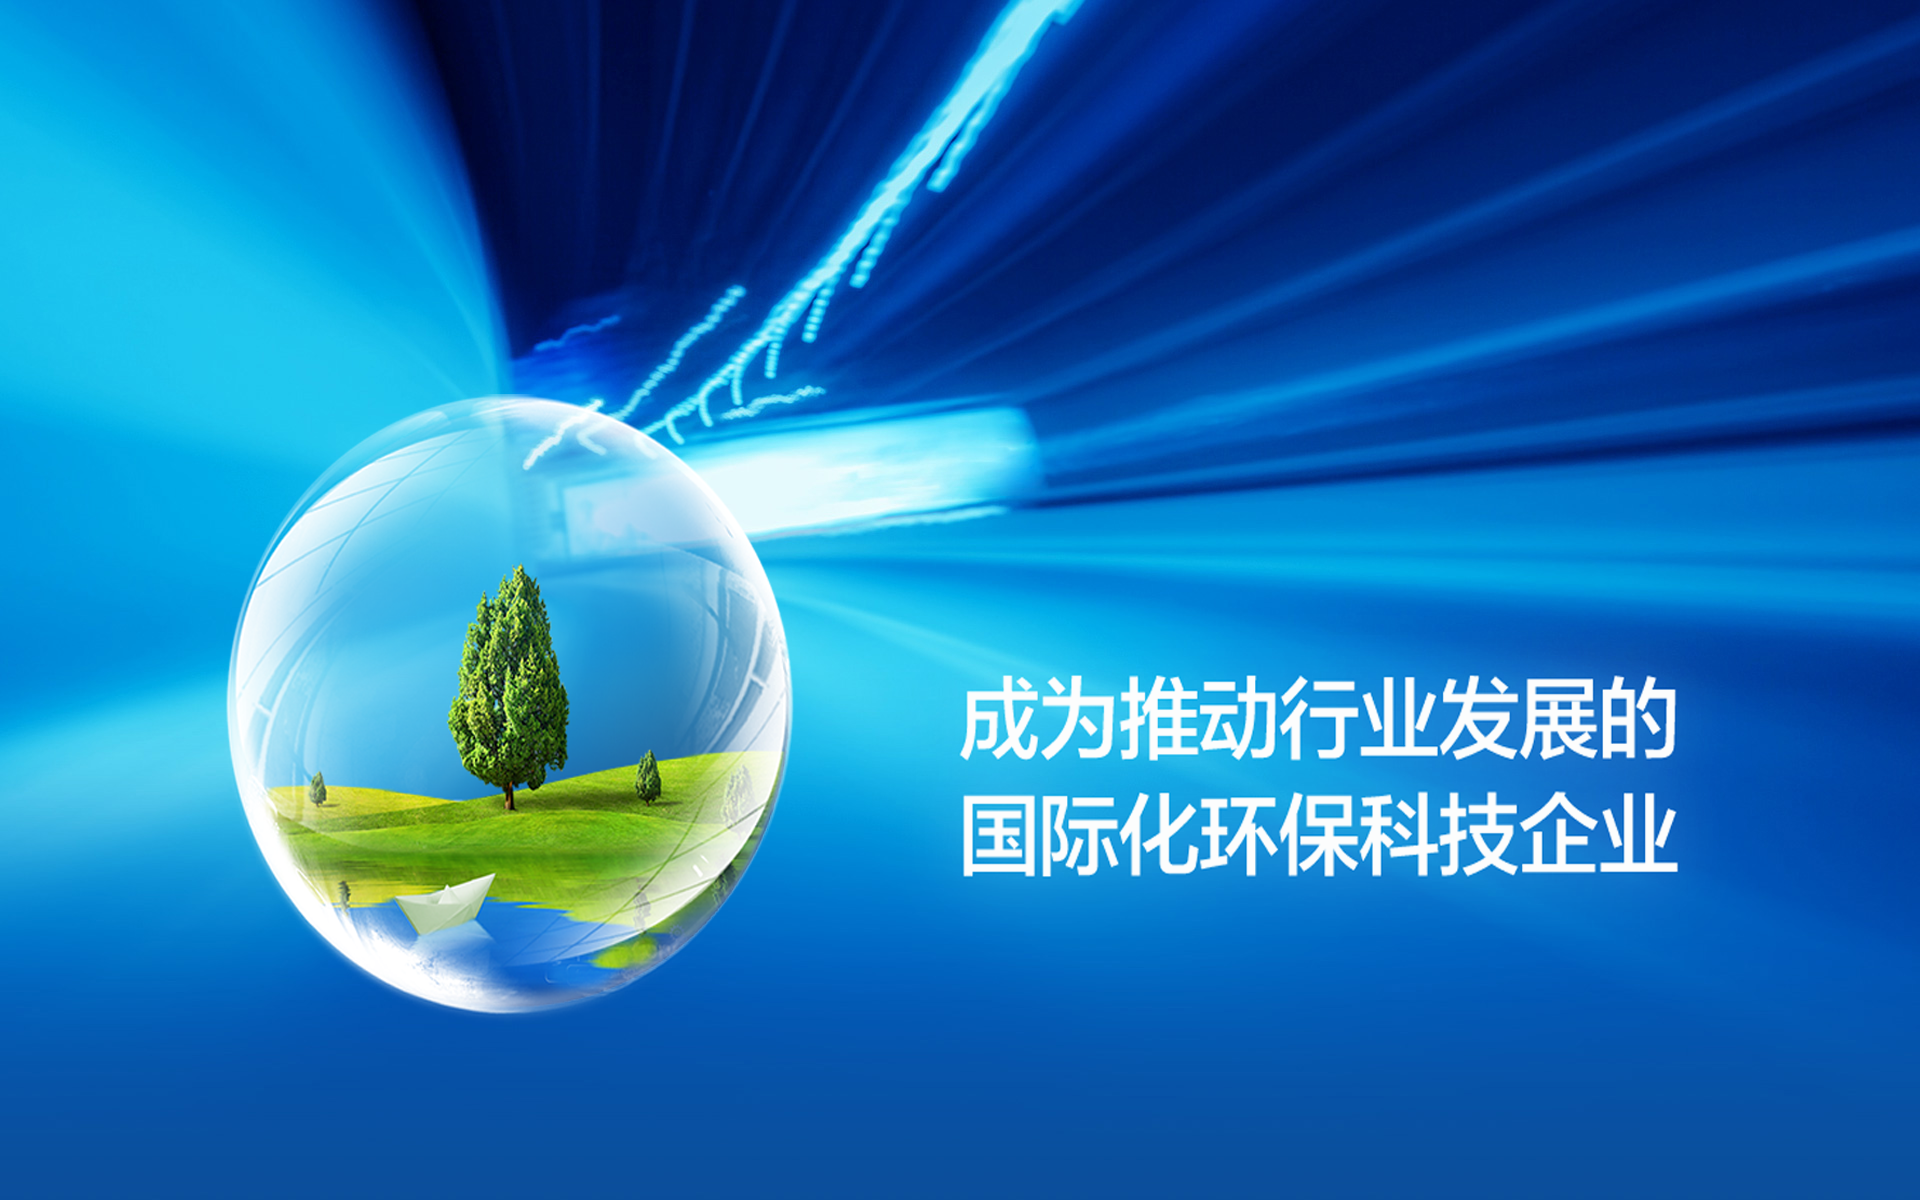
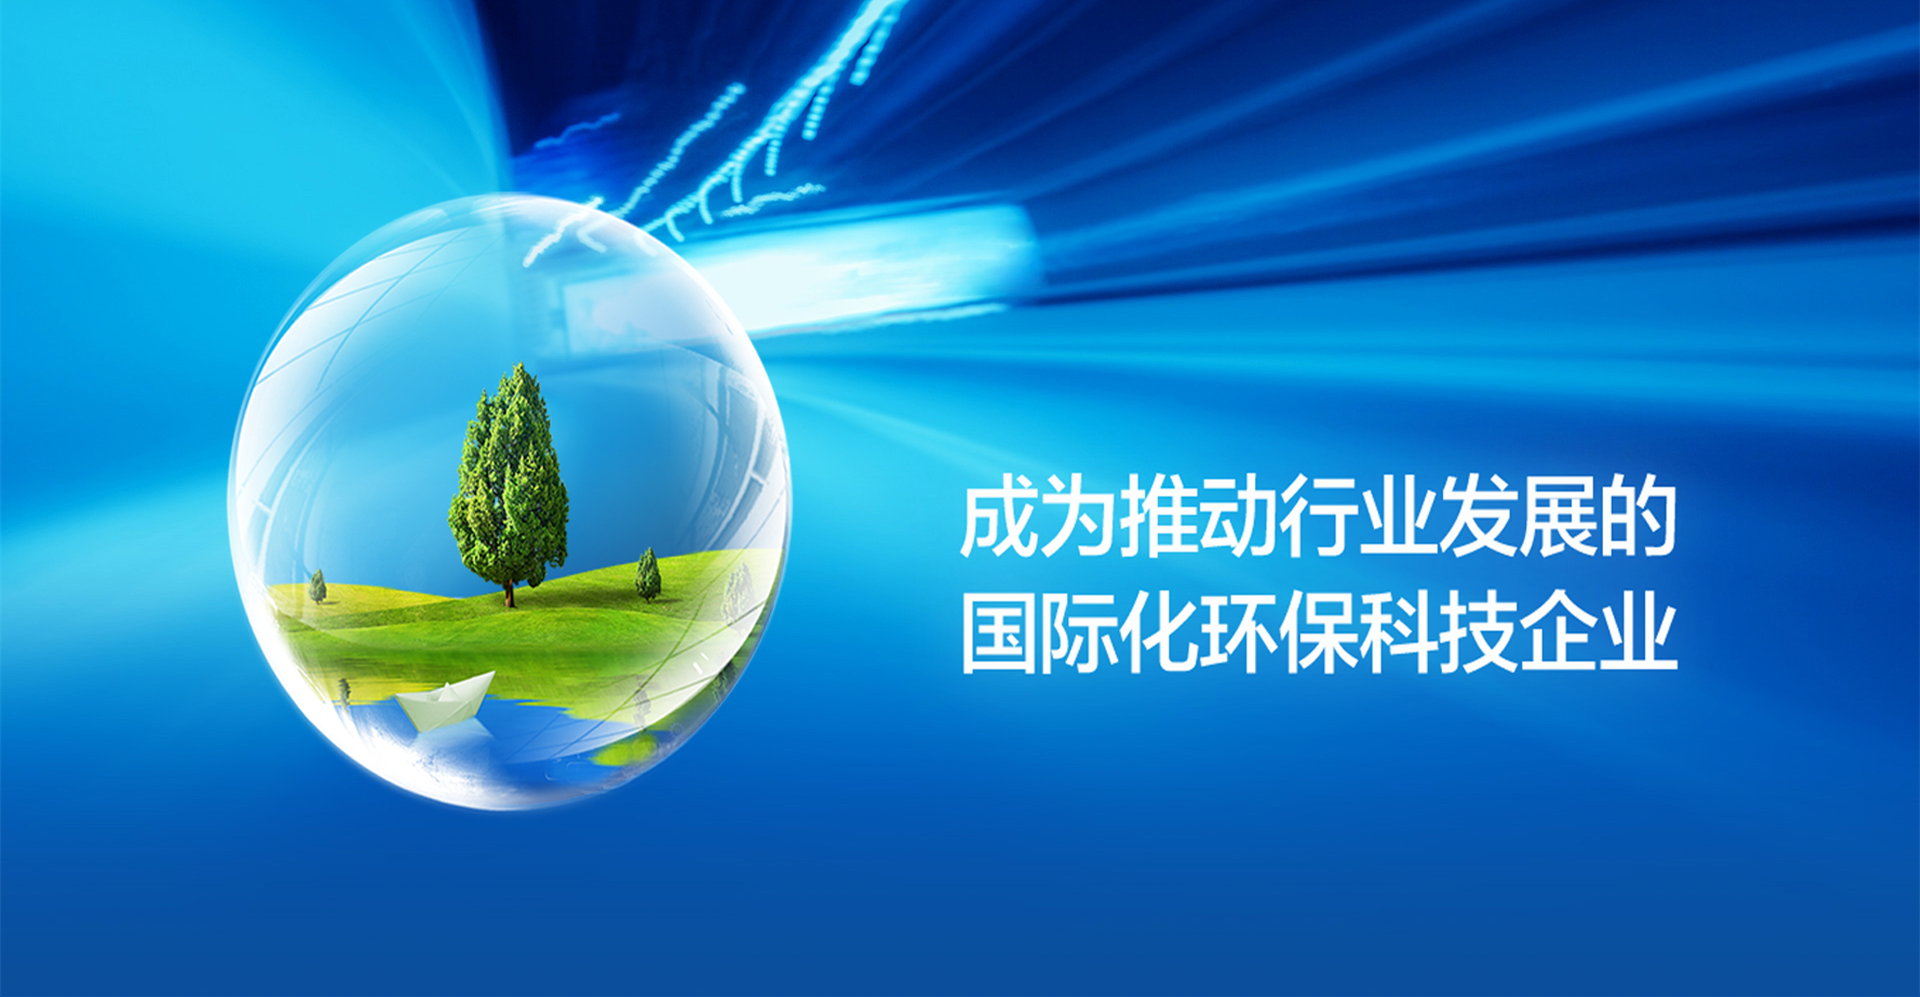
修改图片

diff --git a/static/css/small.css b/static/css/small.css
@@ -34,16 +34,16 @@ body {
 	top:0;
 	display:block;
 	width:100%;
-	height:260px;
+	height:200px;
 	z-index:-10;
 	background-size:cover !important;
-	background: #FFF url(../image/s1.png) no-repeat center center;
+	background: #FFF url(../image/s1.jpg) no-repeat center center;
 }
 #pic2 {
 	position:absolute;
   	top:0;
 	width:100%;
-	height:260px;
+	height:200px;
 	z-index:-10;
 	opacity:0;
 	filter:alpha(opacity=0); 
@@ -54,7 +54,7 @@ body {
 	position:absolute;
   	top:0;
 	width:100%;
-	height:260px;
+	height:200px;
 	z-index:-10;
 	opacity:0;
 	filter:alpha(opacity=0); 
@@ -65,28 +65,18 @@ body {
 	position:absolute;
   	top:0;
 	width:100%;
-	height:260px;
+	height:200px;
 	z-index:-10;
 	opacity:0;
 	filter:alpha(opacity=0); 
 	background-size:cover !important;
 	background: #FFF url(../image/s4.png) no-repeat center center;
 }
-#pic5 {
-	position:absolute;
-  	top:0;
-	width:100%;
-	height:150px;
-	z-index:-10;
-	opacity:0;
-	filter:alpha(opacity=0); 
-	background-size:cover !important;
-}
 #tip_top{
 	width:10px;
 	position:absolute;
 	left:94%;
-	top:130px;
+	top:80px;
 	z-index:14;
 }
 #tip_top ul li{

diff --git a/application/views/main_nav.php b/application/views/main_nav.php
@@ -93,7 +93,7 @@
         </div>
 	</div>
 		
-        <div class="top_small_nav" style="margin-top:260px;">
+        <div class="top_small_nav" style="margin-top:200px;">
             <a href="<?php echo base_url('about?aid=1');?>">公司概况</a>
             <a href="<?php echo base_url('navigcontrol/?tid=8');?>">新闻动态</a>
             <a href="<?php echo base_url('navigcontrol/?tid=11');?>">业务介绍</a>  	
